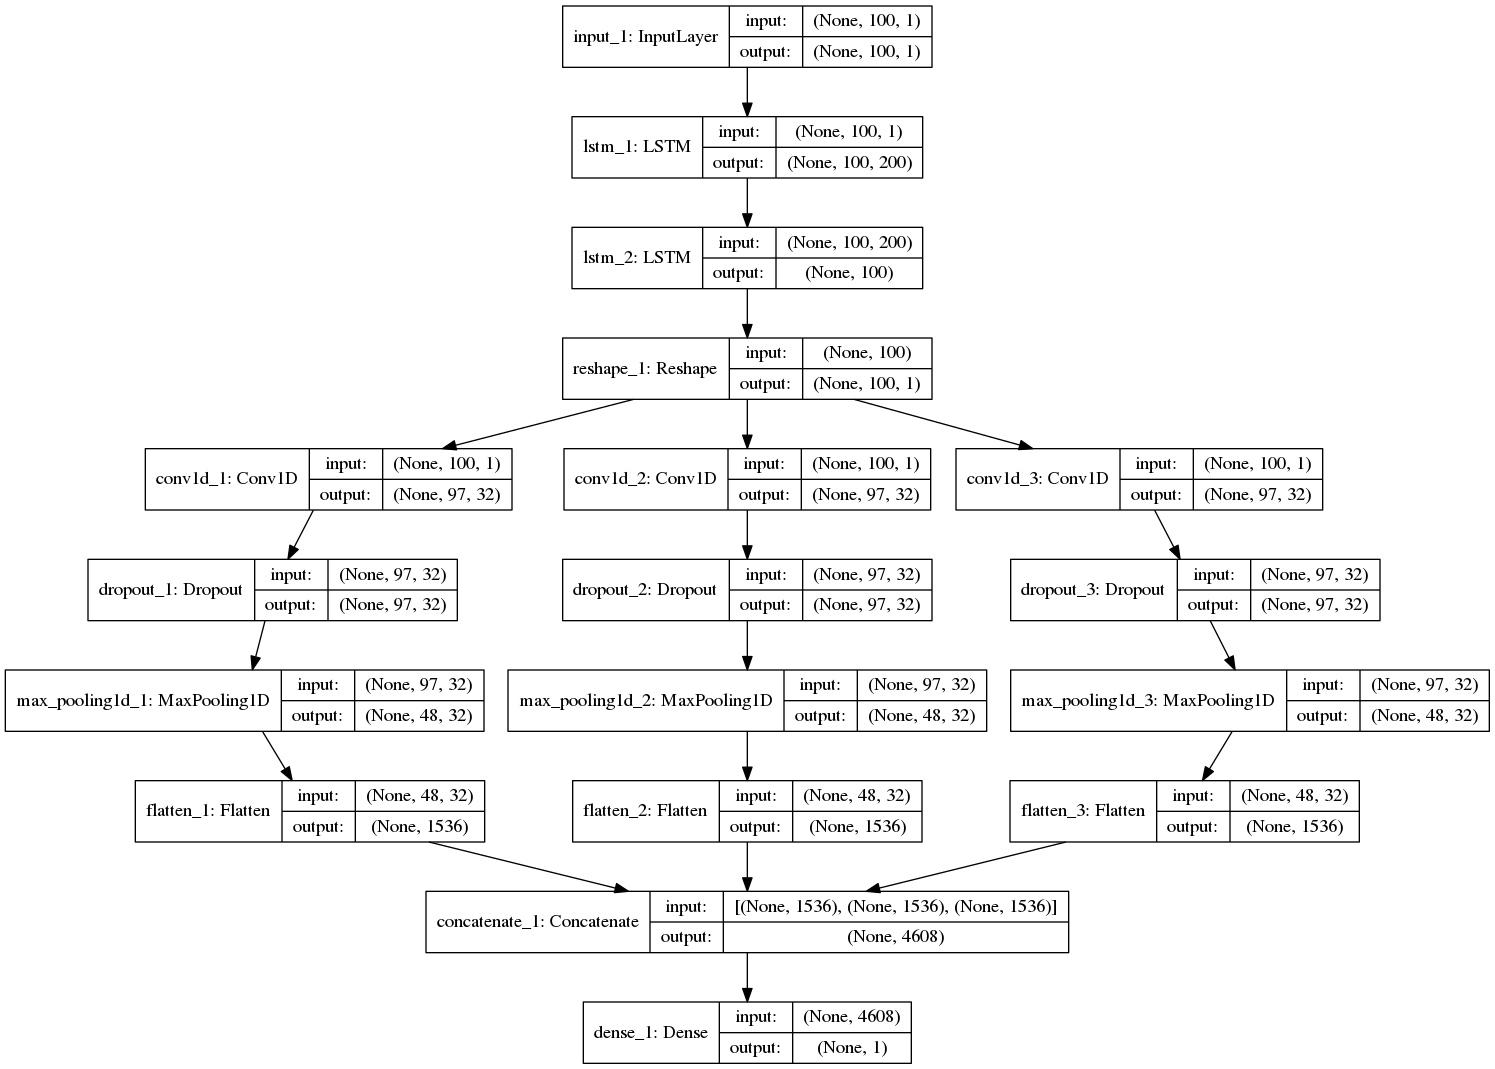
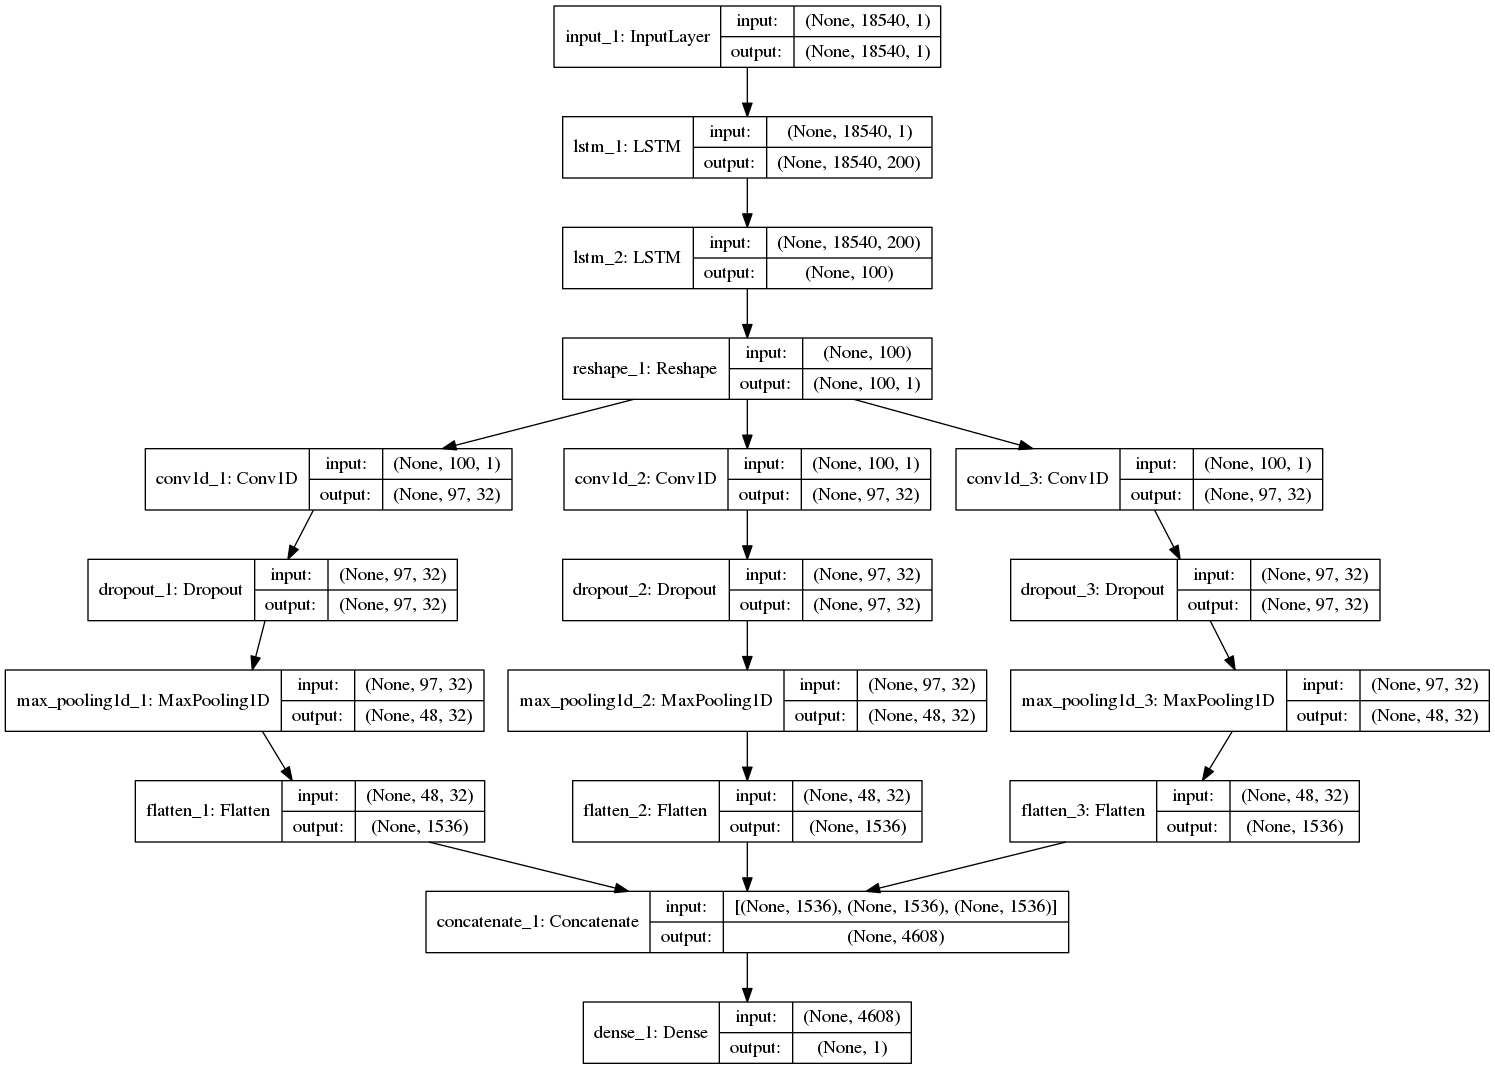
Normal commit

Changed region(s): [[0.3692, 0.0, 0.6462, 0.0617], [0.3692, 0.2161, 0.6154, 0.2778], [0.3692, 0.1235, 0.6154, 0.1543]]

diff --git a/Aspect_Identification/Aspect_LSTM/4_Aspect_1.py b/Aspect_Identification/Aspect_LSTM/4_Aspect_1.py
@@ -22,7 +22,7 @@ def load_data():
 	return X, y
 
 def create_model():
-	visible = Input(shape=(100,1))
+	visible = Input(shape=(18540,1))
 	hidden1 = LSTM(200, return_sequences = True)(visible)
 	hidden2 = LSTM(100)(hidden1)
 	hidden2 = Reshape((100, 1))(hidden2)
@@ -65,8 +65,8 @@ def preprocess_data_and_save(X_data, y_data, encoded_docs, vector_length, X_c):
 	for i in range(dividing_point):
 		print i
 		if i not in dont_train:
-			vector = encoded_docs[i]
-			vector = np.reshape(vector, (1, vector.shape[0]))
+			sentence_vector = encoded_docs[i]
+			sentence_vector = np.reshape(sentence_vector, (1, sentence_vector.shape[0]))
 			for j in range(len(X_data[i])):
 				word_vector = np.zeros(vector_length)
 				word = X_data[i][j]
@@ -77,25 +77,22 @@ def preprocess_data_and_save(X_data, y_data, encoded_docs, vector_length, X_c):
 					if y_data[i][j] == 1:
 						count+=1
 				word_vector = np.reshape(word_vector, (1, word_vector.shape[0]))
-				#if X_train.shape[0] == 0:
-				if len(X_train) == 0:
-					X_train.append(np.append(word_vector, vector))
-					#X_train = np.append(word_vector, vector)
-					#X_train = np.reshape(X_train, (1, X_train.shape[0]))
-					#print X_train.shape
-				else:
-					X_train.append(np.append(word_vector, vector))
-					#s = np.append(word_vector, vector)
-					#print s
-					#s = np.reshape(s, (1, s.shape[0]))
-					#X_train = np.concatenate((X_train, s))
-					#print X_train.shape
-					print len(X_train)
+				vector = np.append(word_vector, sentence_vector)
+				vector = np.reshape(vector, (vector.shape[0], 1))
+				X_train.append(vector)
+				print vector.shape
 				y_train.append(y_data[i][j])
-	X_train = np.array(X_train)
-	print X_train.shape
-	np.save('X_train_model1.npy', X_train)
-	np.save('y_train_model1.npy', np.array(y_train))
+#	X_train = np.array(X_train)
+#	print X_train.shape
+#	np.save('X_train_model1.npy', X_train)
+#	np.save('y_train_model1.npy', np.array(y_train))
+
+	
+	print "Started Training"
+	model.compile(loss = 'binary_crossentropy', optimizer = 'adam', metrics = ['accuracy'])
+	model.fit(np.array(X_train), np.array(y_train), epochs=5, batch_size=32)
+	#score_train, accuracy_train = model.evaluate(X_train, y_train)
+	#print score_train, accuracy_train
 	
 	X_test = np.array([])
 	y_test = []
